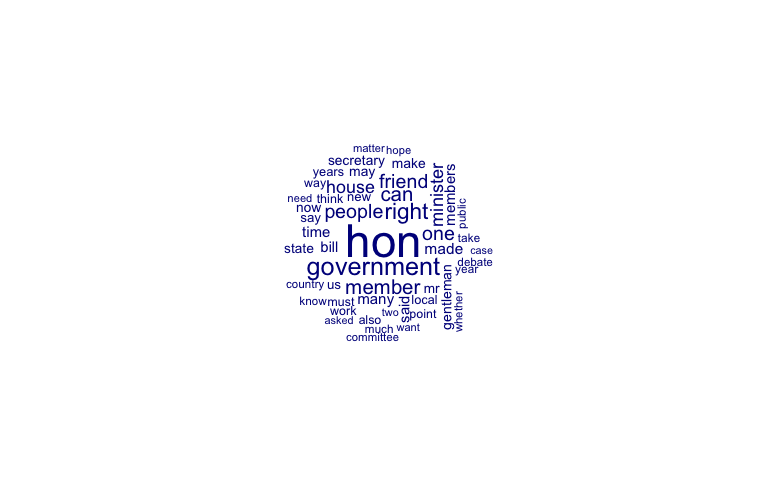
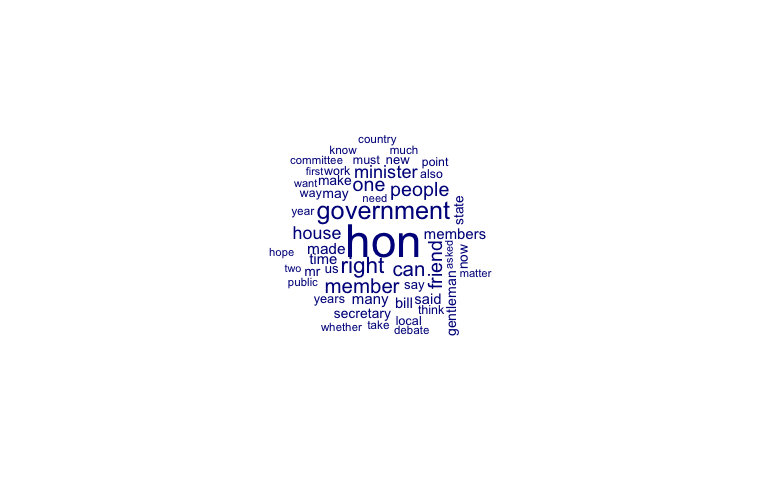
upload materials day 2

Changed region(s): [[0.3438, 0.2812, 0.6562, 0.7188]]

diff --git a/README.md b/README.md
@@ -15,7 +15,7 @@ Please install [R](https://cran.r-project.org/), [Quarto](https://quarto.org/doc
 | Date | Slides | Date | Slides |
 | --- | :---: | --- | :---: |
 | July 6 | [Slides PDF](Slides/Day_1/Slides_QTA_1.pdf) | July 13 | Coming soon |
-| July 7 | Coming soon | July 14 | Coming soon |
+| July 7 | [Slides PDF](Slides/Day_2/Slides_QTA_2.pdf) | July 14 | Coming soon |
 | July 8 | Coming soon | July 15 | Coming soon |
 | July 9 | Coming soon | July 16 | Coming soon |
 | July 10 | Coming soon | July 17 | Coming soon |